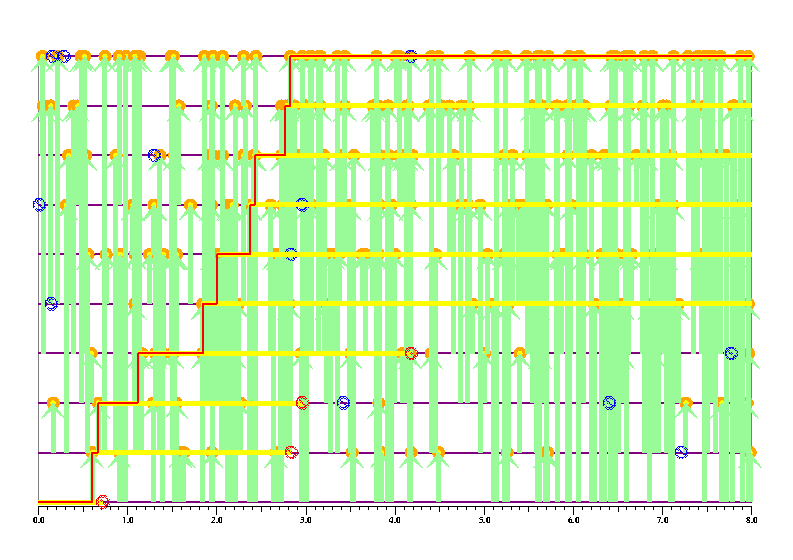
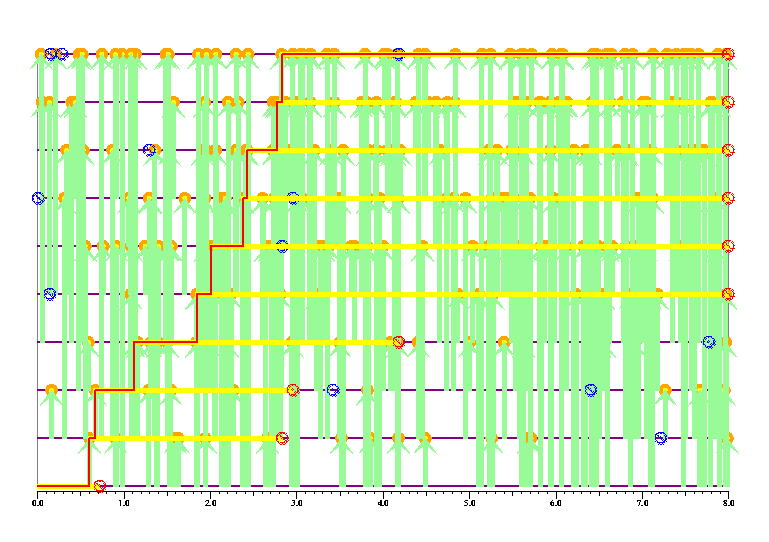
Fixed a bug in static.py: Remove-P shown without Remove because I'd written "<" not "<=".

diff --git a/python/static.py b/python/static.py
@@ -77,7 +77,7 @@ class Error(Exception):
 class Display(tk.Tk):
     """
     Frame for various buttons and Canvas, includes high-level drawing routines
-    and printing. 
+    and printing.
     """
     def __init__(self, T, pop, background='white', height=720, width=1024, \
                  output=None, forceoutput=False):
@@ -92,7 +92,7 @@ class Display(tk.Tk):
 
         self.white = configparser.ConfigParser()
         self.white.read('white.cfg')
- 
+
         self.tog = dict((tag, 1) for tag in self.white.sections())
         self.taglist = self.white.sections()
 
@@ -150,7 +150,7 @@ class Display(tk.Tk):
     def style(self):
         "Format the graphical elements of the canvas and read white options"
         for tag in self.color.sections():
-            self.paint(tag, self.color)         
+            self.paint(tag, self.color)
 
         self.cfg = [self.white, self.color]
         for tag in self.color.sections():
@@ -257,7 +257,7 @@ def main(opt, arguments):
                 else:
                     a, b = idx[floor((num * (num - 1) / 2) * u /divide)]
                     ill[a][b - a - 1].append(t)
- 
+
     logging.info('Set-up innovations structure')
     innov = Innovations(remove=rel, infect=ill)
     logging.info('r: %s' % pformat(innov.remove))
@@ -300,7 +300,7 @@ def main(opt, arguments):
     for i, t0, t1 in zip(count(), infection, removal):
         logging.info((i, t0, t1))
         app.segment(t0, i, t1, i, tag='Infectious')
-        if t1 < T:
+        if t1 <= T:
             app.removal(t1, i, tag='Remove') # This needs fixing I think
 
     logging.info('Display epidemic trajectory')
@@ -366,5 +366,3 @@ if __name__ == '__main__':
 
     logging.info('Finishing')
     sys.exit(0)
-
-
